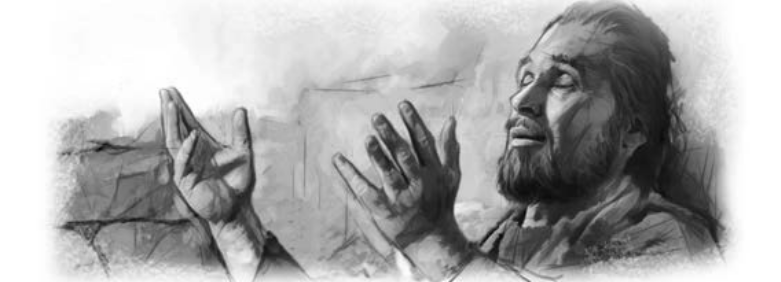
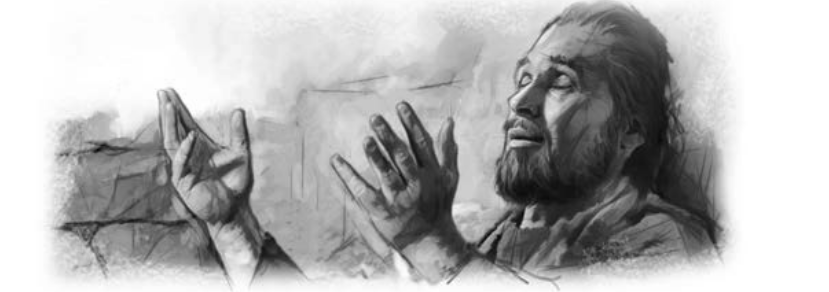
custom py bg remover

diff --git a/lessons/week9.jsx b/lessons/week9.jsx
@@ -34,10 +34,10 @@ const Week9 = ()=>{
 
                     <Text style={[{fontStyle: "italic"}, font=="medium"?{fontSize: 30}:(font=="large"?{fontSize: 32}:{fontSize: 28})]}>
                         Love-driven Ministry
-                    </Text>
+                    </Text> 
 
                     <View style={{overflow: "hidden", marginTop:10, maxHeight: 120, width: "100%"}}>
-                        <Image source={images.lesson4} resizeMode="contain" style={{maxWidth: 370, maxHeight: 134, width: "100%"}}/>
+                        <Image source={images.lesson9} resizeMode="contain" style={{maxWidth: 370, maxHeight: 134, width: "100%"}}/>
                     </View>
                     
                     <View style={[{height: 4, marginTop: 5}, isDark?{backgroundColor: "#022a05"}:{backgroundColor: "red"}]}></View>

diff --git a/constants/images.js b/constants/images.js
@@ -18,7 +18,12 @@ export const images = {
     lesson1: require("../assets/images/lesson1.png"),
     lesson2: require("../assets/images/lesson2.png"),
     lesson3: require("../assets/images/lesson3.png"),
-    lesson4: require("../assets/images/lesson44.png"),
+    lesson4: require("../assets/images/lesson4.png"),
+    lesson5: require("../assets/images/lesson5.png"),
+    lesson6: require("../assets/images/lesson6.png"),
+    lesson7: require("../assets/images/lesson7.png"),
+    lesson8: require("../assets/images/lesson8.png"),
+    lesson9: require("../assets/images/lesson9.png"),
     table: require("../assets/images/table.png"),
     question: require("../assets/images/question.png"),
     options: require("../assets/images/options.png"),

diff --git a/lessons/week5.jsx b/lessons/week5.jsx
@@ -37,7 +37,7 @@ const Week1 = ()=>{
                     </Text>
 
                     <View style={{overflow: "hidden", marginTop:10, maxHeight: 120, width: "100%"}}>
-                        <Image source={images.lesson4} resizeMode="contain" style={{maxWidth: 370, maxHeight: 134, width: "100%"}}/>
+                        <Image source={images.lesson5} resizeMode="contain" style={{maxWidth: 370, maxHeight: 134, width: "100%"}}/>
                     </View>
                     
                     <View style={[{height: 4, marginTop: 5}, isDark?{backgroundColor: "#022a05"}:{backgroundColor: "red"}]}></View>

diff --git a/lessons/week6.jsx b/lessons/week6.jsx
@@ -37,7 +37,7 @@ const Week6 = ()=>{
                     </Text>
 
                     <View style={{overflow: "hidden", marginTop:10, maxHeight: 120, width: "100%"}}>
-                        <Image source={images.lesson4} resizeMode="contain" style={{maxWidth: 370, maxHeight: 134, width: "100%"}}/>
+                        <Image source={images.lesson6} resizeMode="contain" style={{maxWidth: 370, maxHeight: 134, width: "100%"}}/>
                     </View>
                     
                     <View style={[{height: 4, marginTop: 5}, isDark?{backgroundColor: "#022a05"}:{backgroundColor: "red"}]}></View>

diff --git a/lessons/week7.jsx b/lessons/week7.jsx
@@ -37,7 +37,7 @@ const Week7 = ()=>{
                     </Text>
 
                     <View style={{overflow: "hidden", marginTop:10, maxHeight: 120, width: "100%"}}>
-                        <Image source={images.lesson4} resizeMode="contain" style={{maxWidth: 370, maxHeight: 134, width: "100%"}}/>
+                        <Image source={images.lesson7} resizeMode="contain" style={{maxWidth: 370, maxHeight: 134, width: "100%"}}/>
                     </View>
                     
                     <View style={[{height: 4, marginTop: 5}, isDark?{backgroundColor: "#022a05"}:{backgroundColor: "red"}]}></View>

diff --git a/lessons/week8.jsx b/lessons/week8.jsx
@@ -37,7 +37,7 @@ const Week8 = ()=>{
                     </Text>
 
                     <View style={{overflow: "hidden", marginTop:10, maxHeight: 120, width: "100%"}}>
-                        <Image source={images.lesson4} resizeMode="contain" style={{maxWidth: 370, maxHeight: 134, width: "100%"}}/>
+                        <Image source={images.lesson8} resizeMode="contain" style={{maxWidth: 370, maxHeight: 134, width: "100%"}}/>
                     </View>
                     
                     <View style={[{height: 4, marginTop: 5}, isDark?{backgroundColor: "#022a05"}:{backgroundColor: "red"}]}></View>

diff --git a/imageprocess.py b/imageprocess.py
@@ -1,0 +1,25 @@
+from PIL import Image
+import numpy as np
+
+img = Image.open("./assets/images/Pasted image.png").convert("RGBA")
+arr = np.array(img)
+
+rgb = arr[:, :, :3].astype(np.float32)
+
+# Perceived brightness
+luma = (
+    0.299 * rgb[:, :, 0] +
+    0.587 * rgb[:, :, 1] +
+    0.114 * rgb[:, :, 2]
+)
+
+# Thresholds
+white_start = 225   # start fading
+white_end   = 255   # fully transparent
+
+alpha = 255 * (white_end - luma) / (white_end - white_start)
+#alpha = np.clip(alpha, 0, 255).astype(np.uint8)
+alpha = np.power((255 - luma) / 255.0, 0.6) * 255
+arr[:, :, 3] = alpha
+
+Image.fromarray(arr).save("./assets/images/lesson9.png")
